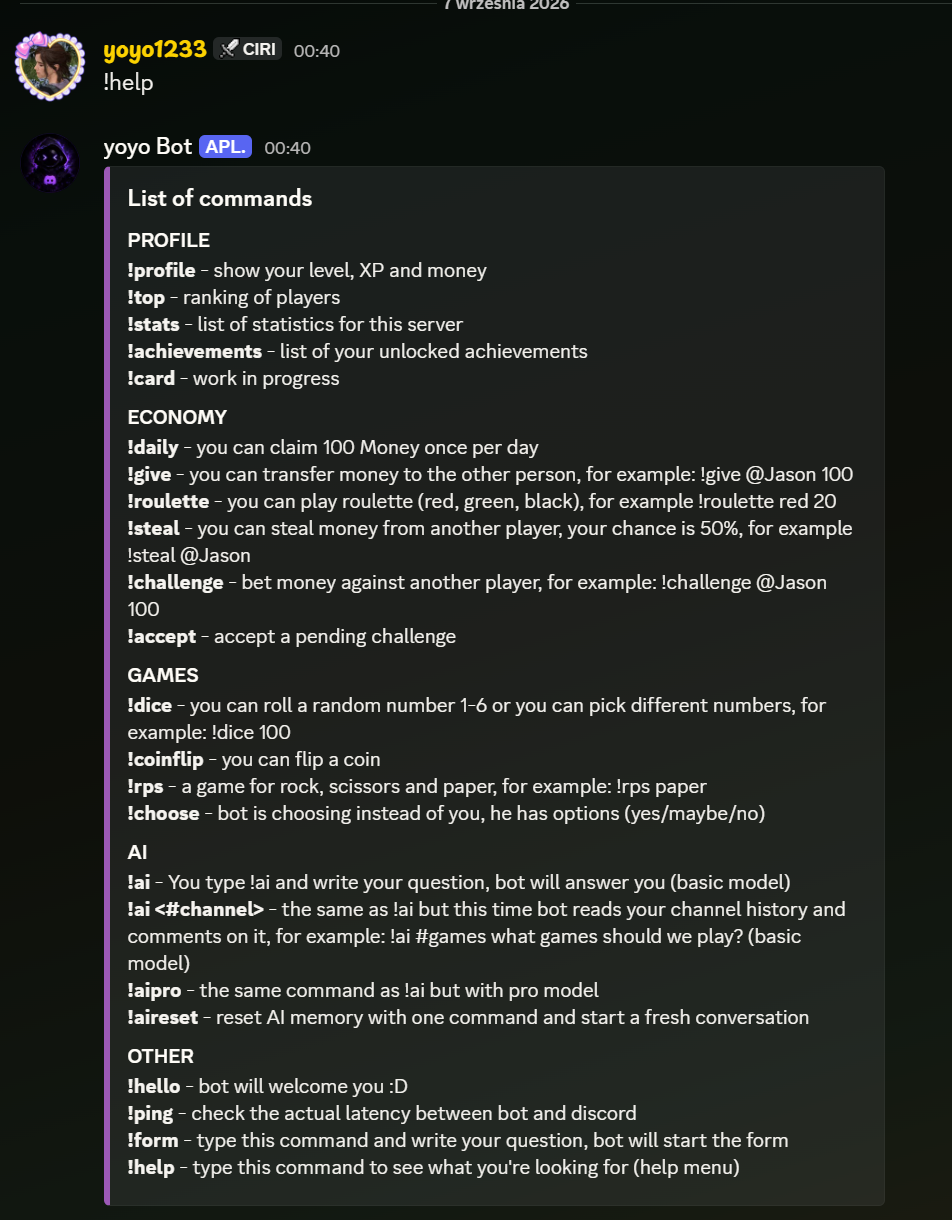
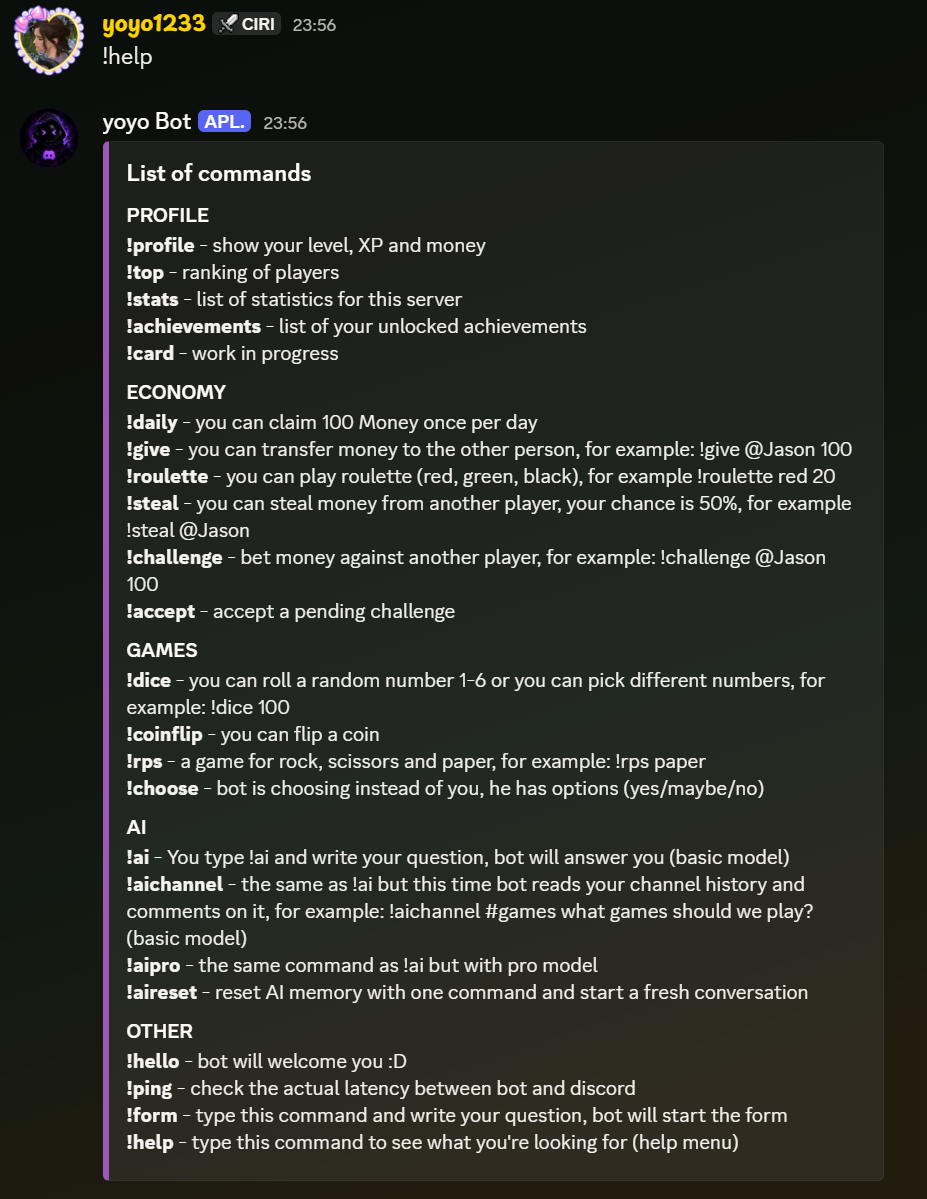
Update README and help command after cogs refactor

Changed region(s): [[0.0, 0.0, 0.9061, 0.9875], [0.9061, 0.6789, 0.9666, 0.9875], [0.4833, 0.0, 0.6041, 0.0309]]

diff --git a/cogs/misc.py b/cogs/misc.py
@@ -28,7 +28,7 @@ class Misc(commands.Cog):
         embed.add_field(name='PROFILE', value="**!profile** - show your level, XP and money\n**!top** - ranking of players\n**!stats** - list of statistics for this server\n**!achievements** - list of your unlocked achievements\n**!card** - work in progress", inline=False)
         embed.add_field(name='ECONOMY', value="**!daily** - you can claim 100 Money once per day\n**!give** - you can transfer money to the other person, for example: !give @Jason 100\n**!roulette** - you can play roulette (red, green, black), for example !roulette red 20\n**!steal** - you can steal money from another player, your chance is 50%, for example !steal @Jason\n**!challenge** - bet money against another player, for example: !challenge @Jason 100\n**!accept** - accept a pending challenge", inline=False)
         embed.add_field(name='GAMES', value="**!dice** - you can roll a random number 1-6 or you can pick different numbers, for example: !dice 100\n**!coinflip** - you can flip a coin\n**!rps** - a game for rock, scissors and paper, for example: !rps paper\n**!choose** - bot is choosing instead of you, he has options (yes/maybe/no)", inline=False)
-        embed.add_field(name='AI', value="**!ai** - You type !ai and write your question, bot will answer you (basic model)\n**!ai <#channel>** - the same as !ai but this time bot reads your channel history and comments on it, for example: !ai #games what games should we play? (basic model)\n**!aipro** - the same command as !ai but with pro model\n**!aireset** - reset AI memory with one command and start a fresh conversation", inline=False)
+        embed.add_field(name='AI', value="**!ai** - You type !ai and write your question, bot will answer you (basic model)\n**!aichannel** - the same as !ai but this time bot reads your channel history and comments on it, for example: !aichannel #games what games should we play? (basic model)\n**!aipro** - the same command as !ai but with pro model\n**!aireset** - reset AI memory with one command and start a fresh conversation", inline=False)
         embed.add_field(name='OTHER', value="**!hello** - bot will welcome you :D\n**!ping** - check the actual latency between bot and discord\n**!form** - type this command and write your question, bot will start the form\n**!help** - type this command to see what you're looking for (help menu)", inline=False)
         await ctx.send(embed=embed)
 

diff --git a/README.md b/README.md
@@ -52,6 +52,11 @@ DEEPSEEK_API_KEY=your_key_here
 python bot.py
 ```
 
+## Structure
+- `bot.py` - entry point, event handlers, loads cogs
+- `cogs/` - command modules
+- `utils/` - shared data and API client
+
 ## Commands
 ### Profile
 | Command         | Description |
@@ -81,12 +86,12 @@ python bot.py
 | `!choose` |  bot is choosing instead of you, he has options (yes/maybe/no)|
 
 ### AI
-| Command | Description                                                                                                                                       |
-|---------|---------------------------------------------------------------------------------------------------------------------------------------------------|
-| `!ai` | you type !ai and write your question, bot will answer you (basic model)                                                                           |
-| `!ai <#channel>` | the same as !ai but this time bot reads your channel history and comments on it, for example: !ai #games what games should we play? (basic model) |
-| `!aipro` | the same command as !ai but with pro model                                                                                                        |
-| `!aireset` | reset AI memory with one command and start a fresh conversation                                                                                   |
+| Command      | Description                                                                                                                                              |
+|--------------|----------------------------------------------------------------------------------------------------------------------------------------------------------|
+| `!ai`        | you type !ai and write your question, bot will answer you (basic model)                                                                                  |
+| `!aichannel` | the same as !ai but this time bot reads your channel history and comments on it, for example: !aichannel #games what games should we play? (basic model) |
+| `!aipro`     | the same command as !ai but with pro model                                                                                                               |
+| `!aireset`   | reset AI memory with one command and start a fresh conversation                                                                                          |
 
 ### Other
 | Command | Description|
@@ -101,9 +106,12 @@ python bot.py
 
 ## Roadmap
 
-- [ ] Split the bot into modules
+- [x] Split the bot into modules
 - [ ] Move from JSON to SQLite database
+- [ ] Dockerfile
+- [ ] Deploy the bot for 24/7 uptime
 - [ ] Slash commands
+- [ ] Add requirements.txt
 - [ ] Add unit tests for economy logic
 - [ ] Replace print() with proper logging
 - [ ] Player card with Pillow
